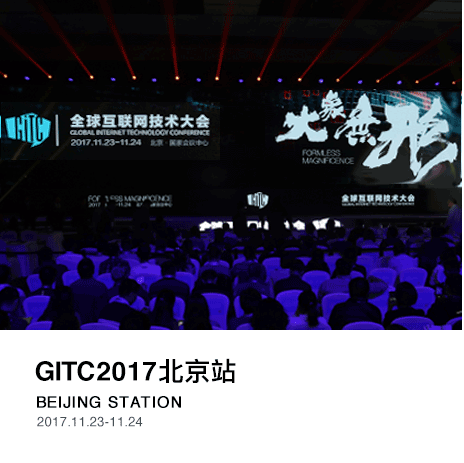
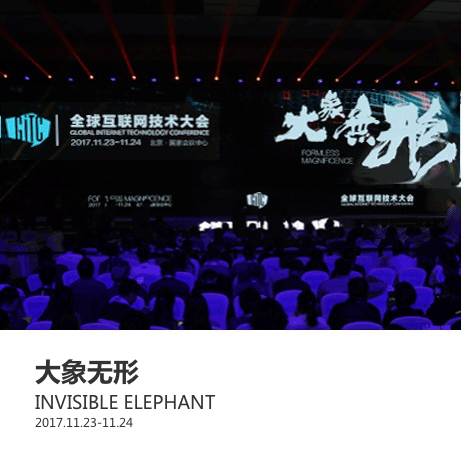
fix: 修改往届回顾的2017北京站背景图

diff --git a/static/js/swiper.min.js b/static/js/swiper.min.js
@@ -24,26 +24,55 @@ $(window).load(function(){
     },
     onSlideChangeStart: function(s){new WOW().init();}
   });
-
-  var swiper = new Swiper('.js__swiper-latest', {
-    nextButton: '.js__swiper-btn--next',
-    prevButton: '.js__swiper-btn--prev',
-    speed: 1000,
-    autoplay: 4000,
-    loop: true,
-    spaceBetween: 10,
-    slidesPerView: 4,
+  
+  var isMobile = /Android|webOS|iPhone|iPod|BlackBerry/i.test(navigator.userAgent)
+  // console.log(isMobile, 'clinetWidth');
+  
+  if(isMobile) {
+    var mySwiper = new Swiper('.swiper-container',{
+      nextButton: '.js__swiper-btn--next',
+      prevButton: '.js__swiper-btn--prev',
+      speed: 1000,
+      autoplay: 4000,
+      loop: true,
+      // spaceBetween: 10,
+      // slidesPerView: 4,
+      //
+      
+      effect : 'cube',
+      cubeEffect: {
+        slideShadows: true,
+        shadow: true,
+        shadowOffset: 100,
+        shadowScale: 0.6
+      },
+    })
+  } else {
+      var swiper = new Swiper('.js__swiper-latest', {
+      nextButton: '.js__swiper-btn--next',
+      prevButton: '.js__swiper-btn--prev',
+      speed: 1000,
+      autoplay: 4000,
+      loop: true,
+      spaceBetween: 10,
+      slidesPerView: 4,
     
-    effect: 'coverflow',
-    centeredSlides: true,
-    coverflow: {
+      effect: 'coverflow',
+      centeredSlides: true,
+      coverflow: {
         rotate: 40,
         stretch: 50,
         depth: 100,
         modifier: 1,
+  
+        // rotate: 30,
+        // stretch: 10,
+        // depth: 60,
+        // modifier: 2,
         slideShadows : true
-    }
-  });
+      }
+    });
+  }
 
   /* Slider */
   var swiper = new Swiper('.js__swiper-slider', {

diff --git a/index.html b/index.html
@@ -714,8 +714,8 @@
               <!--<li><a class="g-font-size-12&#45;&#45;xs g-color&#45;&#45;white-opacity" href="javascript:;">深圳站</a></li>
               <li><a class="g-font-size-12&#45;&#45;xs g-color&#45;&#45;white-opacity" href="javascript:;">成都站</a></li>-->
               <li><a class="g-font-size-12--xs g-color--white-opacity" href="/tokyoStation.html">东京站</a></li>
-              <li><a class="g-font-size-12--xs g-color--white-opacity" href="javascript:;">台湾站</a></li>
-              <li><a class="g-font-size-12--xs g-color--white-opacity" href="javascript:;">北京站</a></li>
+              <li><a class="g-font-size-12--xs g-color--white-opacity" href="/shhg.html;">上海站</a></li>
+              <li><a class="g-font-size-12--xs g-color--white-opacity" href="http://bj.thegitc.com;">北京站</a></li>
               <li><a class="g-font-size-12--xs g-color--white-opacity" href="http://www.kylinclub.org/" target="_blank">关于主办方</a></li>
               <li><a class="g-font-size-12--xs g-color--white-opacity" href="contact.html">联系我们</a></li>
             </ul>
@@ -857,7 +857,8 @@
           }else{
               $('.row .g-margin-b-48--xs p').html('')
           }
-      }browserRedirect();
+      }
+      browserRedirect();
   </script>
    <script type="text/javascript" src="//s7.addthis.com/js/300/addthis_widget.js#pubid=ra-591fe0c2662cc83b" async="async"></script>
   <script src="static/js/waypoints.min.js"></script>
